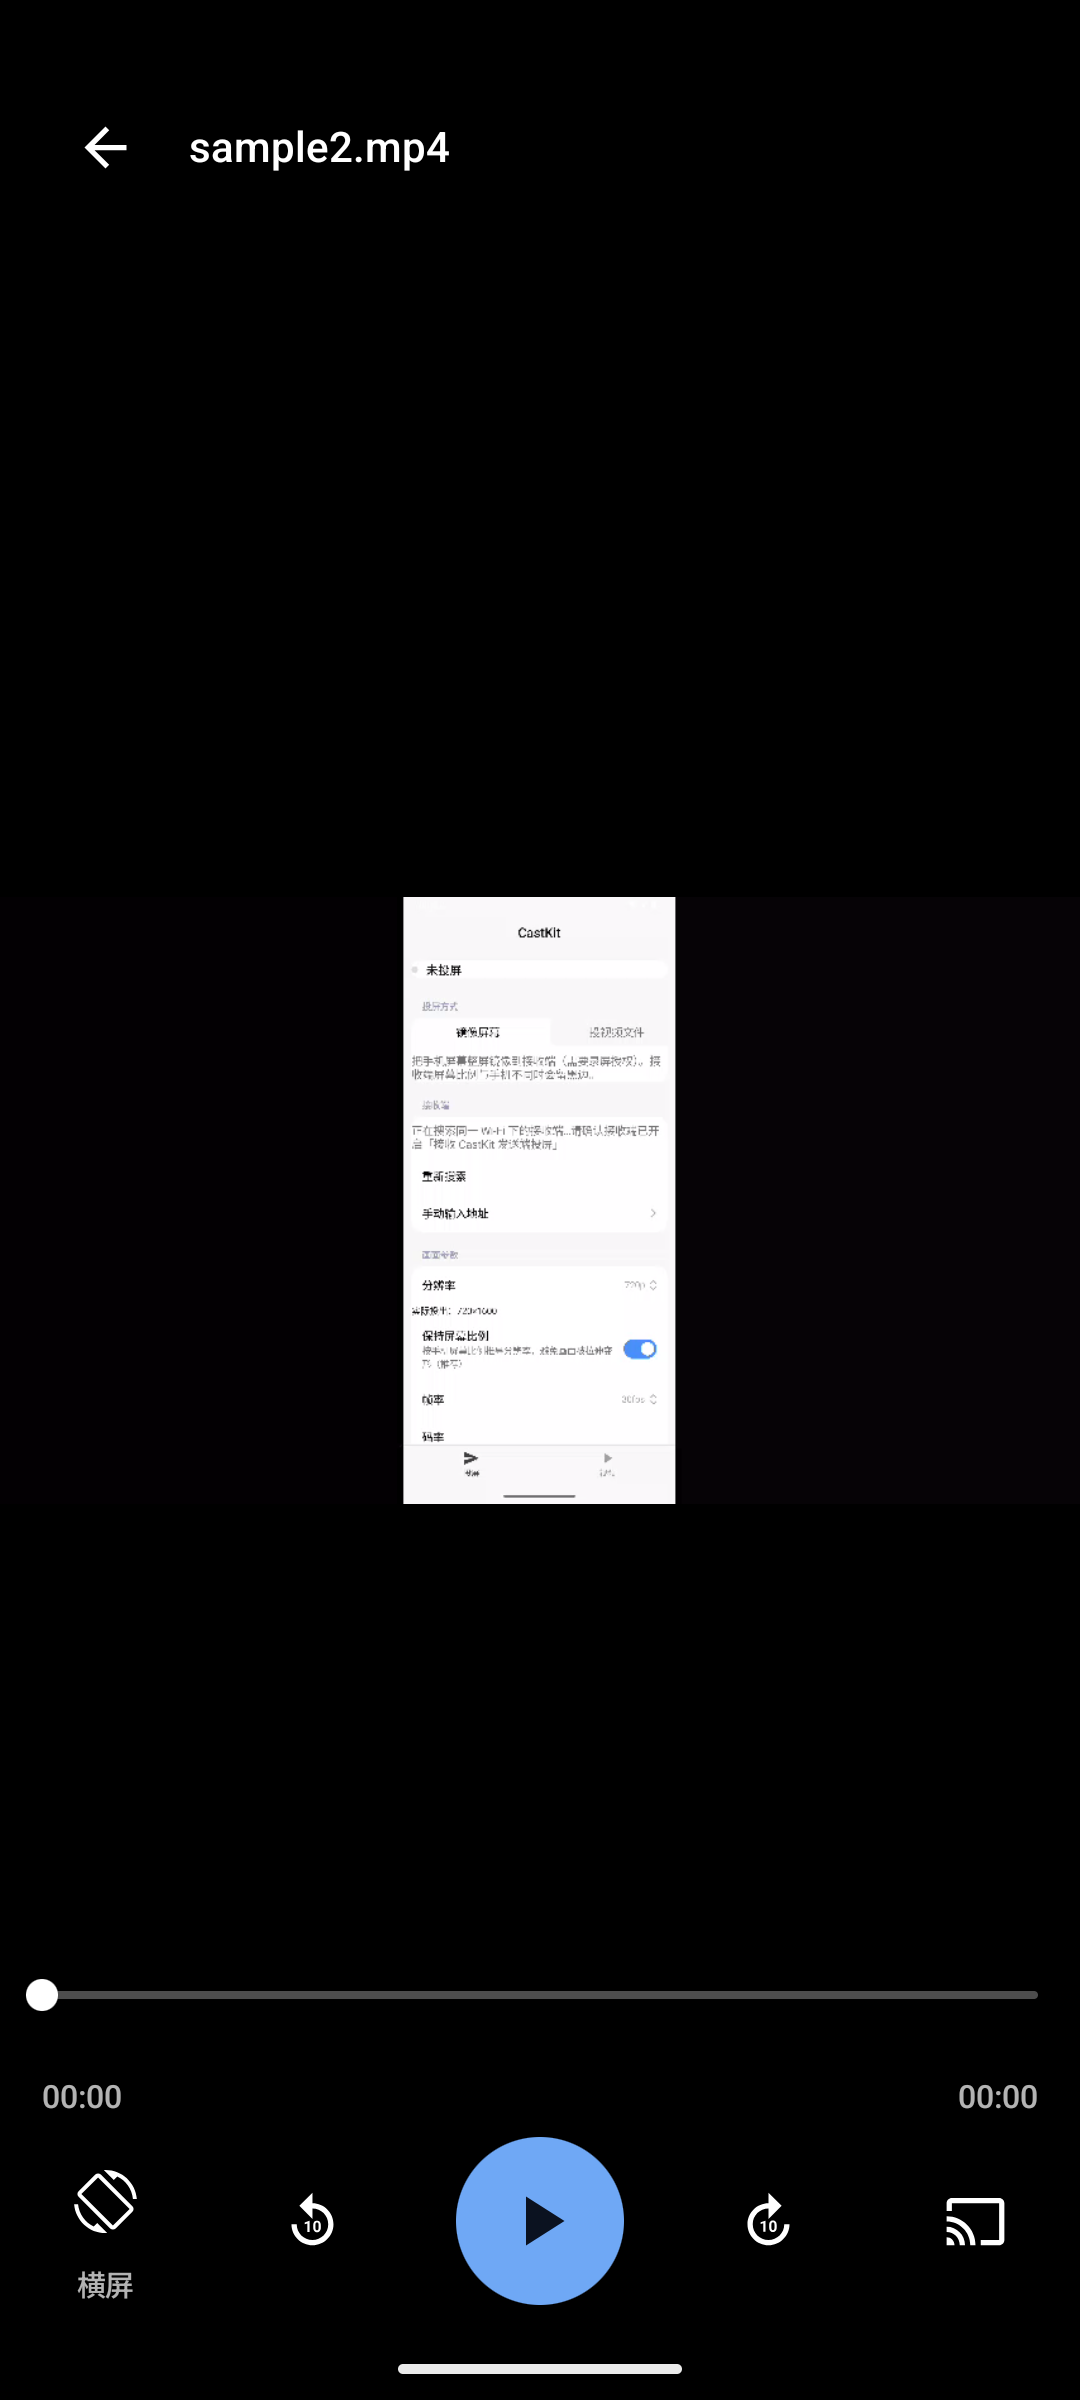
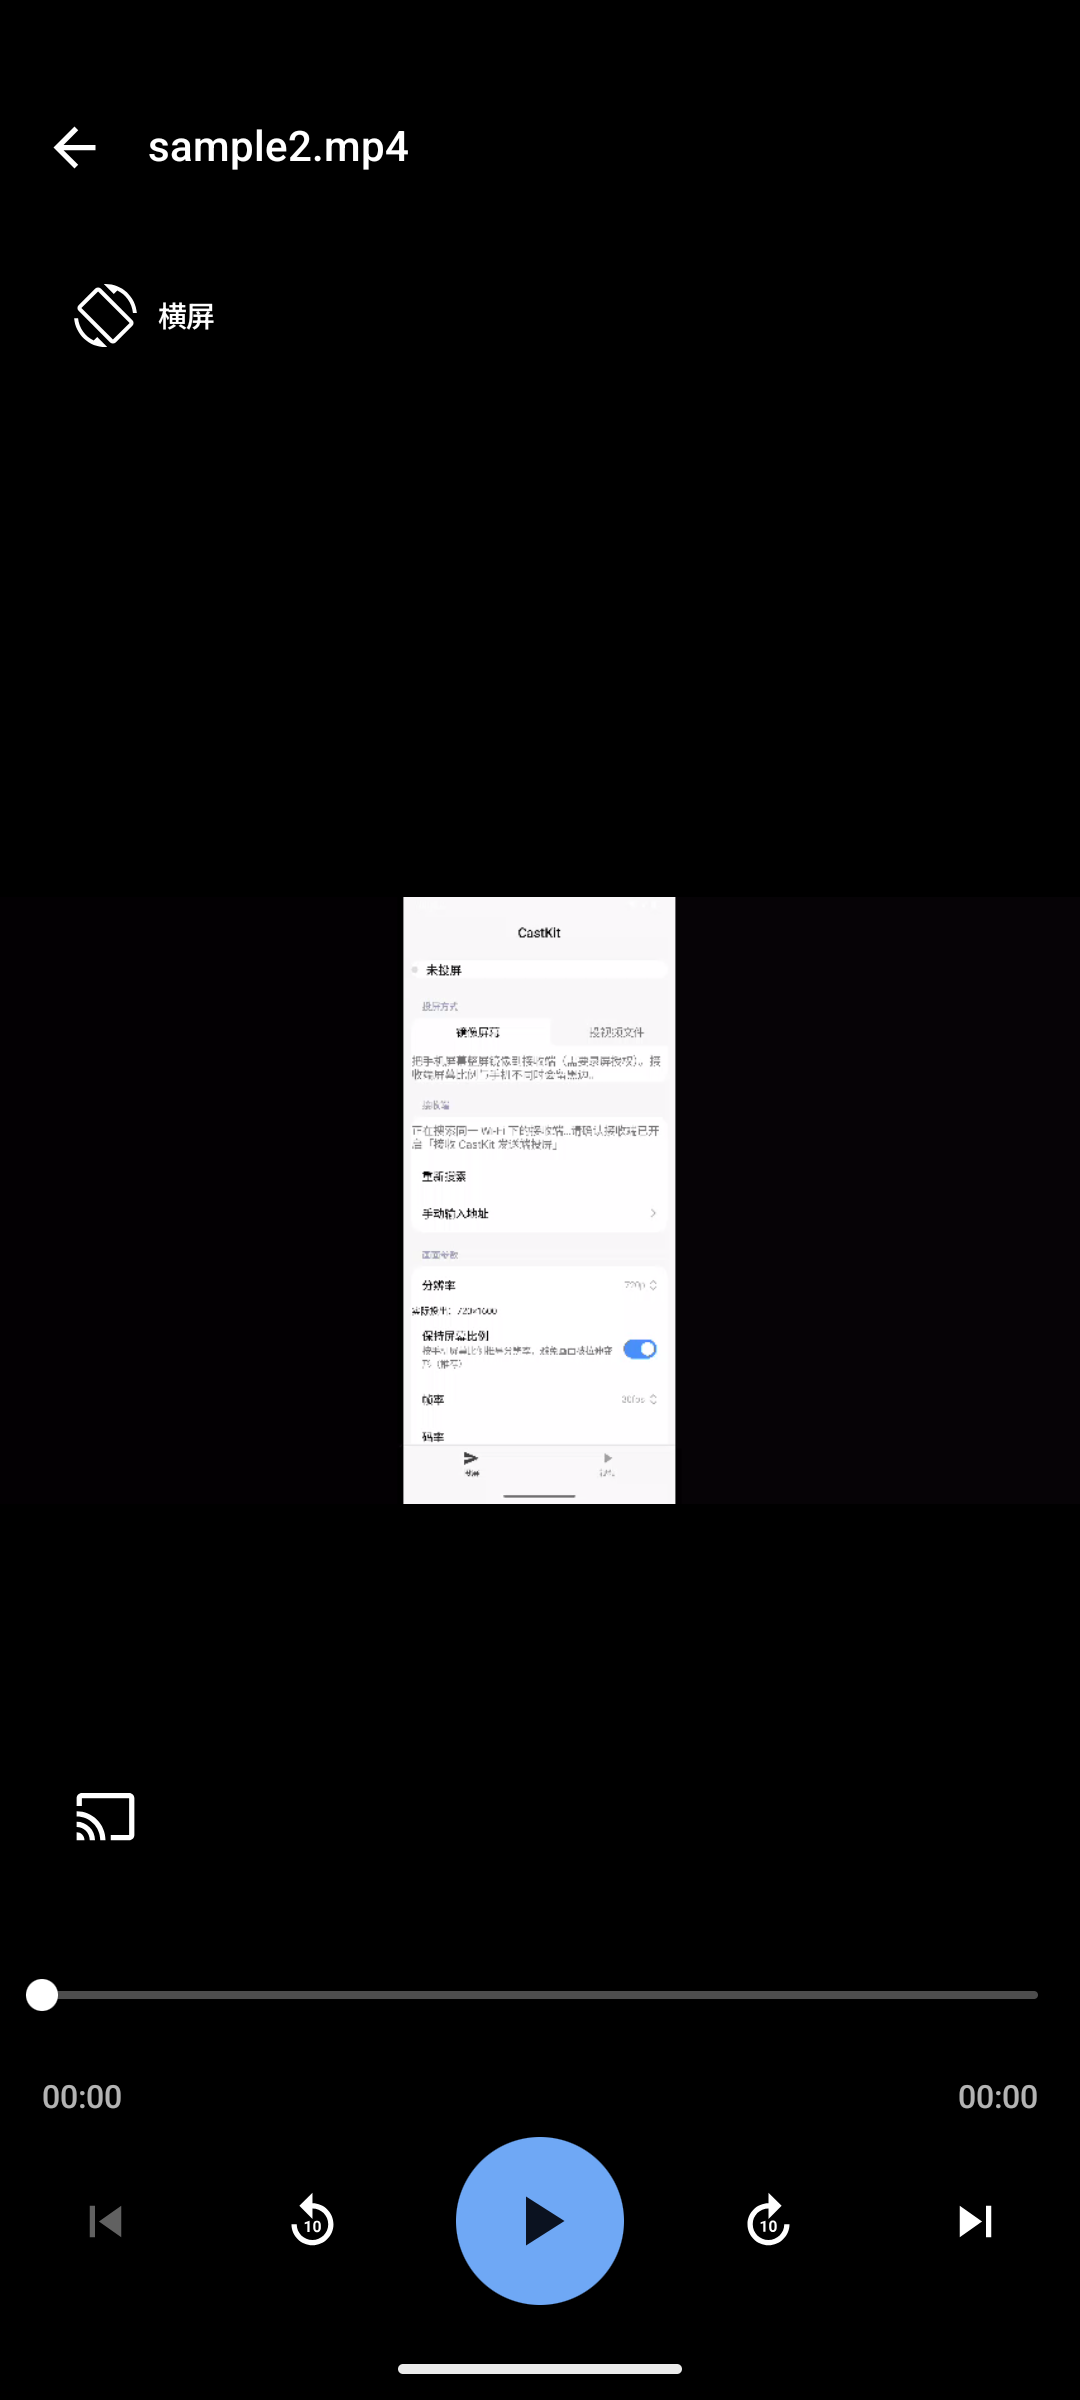
feat(sender): 播放页加上「上一个/下一个视频」，底栏扩成五格
顺序按要求排：上一个视频 · ↺10 · 播放暂停 · ↷10 · 下一个视频。

功能是真的能切，不是摆设：
- 文件列表页在 onPlay 里把**当前文件夹的显示顺序**（含当时的排序）一起交给播放页，
  它再按这份列表算前后 —— 所以排序变了，上一个/下一个的顺序也跟着变。
- 已在列表首/末个时按钮**置灰**（38% 不透明度）并且不响应点击，而不是隐藏：
  隐藏会让控制排的格数随播放位置跳，位置不稳。
- 切集之前会先收掉正在进行的投送，否则接收端还在放上一个文件。

PlayerIconSlot 因此加了 enabled 参数；PlayerBottomControls 加 hasPrev/hasNext/
onPrev/onNext。debbug 画廊的调用点同步更新。

顺带更新文档：README 的「播放页」小节、DESIGN-SYSTEM 的底部控制区表格与偏差清单
（补 3b 条），以及两张已经过时的播放器截图（还是旧的五格布局）。

实测（真机 2410DPN6CC）：
- 布局：五格在 384dp 窄屏上排得下，首格置灰、末格高亮。
- 上一个：418 → 417 → 416（g-h265 → g-vp9 → g-3gp），按列表顺序正确回退。
- 置灰：在列表首个位置连点 16 下「上一个」，零响应、无崩溃。

diff --git a/sender/app/src/main/kotlin/com/dsh/castkit/sender/ui/VideoPlayerScreen.kt b/sender/app/src/main/kotlin/com/dsh/castkit/sender/ui/VideoPlayerScreen.kt
@@ -40,6 +40,8 @@ import androidx.compose.material.icons.filled.Pause
 import androidx.compose.material.icons.filled.PlayArrow
 import androidx.compose.material.icons.filled.Replay10
 import androidx.compose.material.icons.filled.ScreenRotation
+import androidx.compose.material.icons.filled.SkipNext
+import androidx.compose.material.icons.filled.SkipPrevious
 import androidx.compose.material.icons.filled.Stop
 import androidx.compose.material.icons.filled.WifiTethering
 import androidx.compose.material3.CircularProgressIndicator
@@ -139,6 +141,11 @@ fun VideoPlayerScreen(
     onRemoteToggle: () -> Unit,
     onRemoteSeek: (Long) -> Unit,
     onClose: () -> Unit,
+    /** 上一个 / 下一个视频；列表为空或已在两端时对应回调不会触发（按钮也会置灰）。 */
+    hasPrev: Boolean = false,
+    hasNext: Boolean = false,
+    onPrev: () -> Unit = {},
+    onNext: () -> Unit = {},
 ) {
     val context = LocalContext.current
     val activity = context as? Activity
@@ -357,6 +364,8 @@ fun VideoPlayerScreen(
                     positionMs = position,
                     durationMs = duration,
                     playing = playing,
+                    hasPrev = hasPrev,
+                    hasNext = hasNext,
                     onScrub = { scrubMs = it },
                     onScrubFinished = {
                         val target = scrubMs
@@ -365,9 +374,11 @@ fun VideoPlayerScreen(
                         }
                         scrubMs = null
                     },
+                    onPrev = onPrev,
                     onSeekBack = { seekBy(-SEEK_STEP_MS) },
-                    onSeekForward = { seekBy(SEEK_STEP_MS) },
                     onPlayPause = { if (remote) onRemoteToggle() else vm.toggle() },
+                    onSeekForward = { seekBy(SEEK_STEP_MS) },
+                    onNext = onNext,
                 )
             }
         }
@@ -430,17 +441,21 @@ internal fun PlayerTopBar(title: String, onBack: () -> Unit) {
     )
 }
 
-/** 底栏：进度条 + 时间码 + 三格控制排。 */
+/** 底栏：进度条 + 时间码 + 五格控制排。 */
 @Composable
 internal fun PlayerBottomControls(
     positionMs: Long,
     durationMs: Long,
     playing: Boolean,
+    hasPrev: Boolean,
+    hasNext: Boolean,
     onScrub: (Long) -> Unit,
     onScrubFinished: () -> Unit,
+    onPrev: () -> Unit,
     onSeekBack: () -> Unit,
-    onSeekForward: () -> Unit,
     onPlayPause: () -> Unit,
+    onSeekForward: () -> Unit,
+    onNext: () -> Unit,
 ) {
     Column(
         modifier = Modifier
@@ -474,14 +489,22 @@ internal fun PlayerBottomControls(
             )
         }
 
-        // 只留播放本身需要的那三个：后退10 | 播放暂停(64dp) | 前进10。
-        // 「切方向」挪到顶栏下方、「投屏」挪到本栏左上方，都做成悬浮钮。
-        // SpaceBetween 在只有三格时正好把主按钮顶在正中，两侧等距。
+        // 五格：上一个视频 | 后退10 | 播放暂停(64dp) | 前进10 | 下一个视频。
+        // 「切方向」在顶栏下方、「投屏」在本栏左上方，都是悬浮钮，不在这排里。
+        // 宽度核算：48×4 + 64 = 256dp，加两端 16dp 留白 = 288dp，
+        // 在 360dp 窄屏上仍有余量，所以不需要缩小图标或收紧间距。
         Row(
             modifier = Modifier.fillMaxWidth(),
             horizontalArrangement = Arrangement.SpaceBetween,
             verticalAlignment = Alignment.CenterVertically,
         ) {
+            PlayerIconSlot(
+                icon = Icons.Filled.SkipPrevious,
+                label = stringResource(R.string.player_prev_video),
+                enabled = hasPrev,
+                onClick = onPrev,
+            )
+
             // ±10 秒不加文字标签：Replay10 / Forward10 图标本身带 "10"
             PlayerIconSlot(
                 icon = Icons.Filled.Replay10,
@@ -495,6 +518,13 @@ internal fun PlayerBottomControls(
                 icon = Icons.Filled.Forward10,
                 label = stringResource(R.string.player_forward_10),
                 onClick = onSeekForward,
+            )
+
+            PlayerIconSlot(
+                icon = Icons.Filled.SkipNext,
+                label = stringResource(R.string.player_next_video),
+                enabled = hasNext,
+                onClick = onNext,
             )
         }
     }
@@ -679,6 +709,9 @@ private fun ScrubBar(
  *
  * @param text 图标下方的 11sp 极小文字；传 null 表示不放（±10 秒用不到，
  *        因为图标本身带 "10"）。
+ * @param enabled false 表示这个操作当前没有意义（例如已经是列表第一个，"上一个"），
+ *        图标降到 38% 不透明度并且不响应点击 —— 置灰而不是隐藏，
+ *        这样控制排的格数和位置不会随播放位置跳来跳去。
  */
 @Composable
 private fun PlayerIconSlot(
@@ -688,6 +721,7 @@ private fun PlayerIconSlot(
     modifier: Modifier = Modifier,
     text: String? = null,
     active: Boolean = false,
+    enabled: Boolean = true,
 ) {
     Column(
         modifier = modifier,
@@ -697,13 +731,17 @@ private fun PlayerIconSlot(
             modifier = Modifier
                 .size(CastKitSizes.minTouchTarget)
                 .clip(CircleShape)
-                .clickable(onClick = onClick),
+                .clickable(enabled = enabled, onClick = onClick),
             contentAlignment = Alignment.Center,
         ) {
             Icon(
                 imageVector = icon,
                 contentDescription = label,
-                tint = if (active) ImmersiveColors.Accent else ImmersiveColors.OnScrim,
+                tint = when {
+                    !enabled -> ImmersiveColors.OnScrim.copy(alpha = 0.38f)
+                    active -> ImmersiveColors.Accent
+                    else -> ImmersiveColors.OnScrim
+                },
                 modifier = Modifier.size(CastKitSizes.playerSecondaryGlyph),
             )
         }

diff --git a/sender/app/src/main/kotlin/com/dsh/castkit/sender/ui/MainScreen.kt b/sender/app/src/main/kotlin/com/dsh/castkit/sender/ui/MainScreen.kt
@@ -82,6 +82,12 @@ fun MainScreen(
     val context = LocalContext.current
     var tab by remember { mutableStateOf(HomeTab.CAST) }
     var playing by remember { mutableStateOf<Uri?>(null) }
+
+    /**
+     * 打开播放页时当前文件夹的播放列表（显示顺序）。
+     * 播放页的「上一个/下一个」按它走；直接进播放页（系统文件选择器）时只有一个元素。
+     */
+    var playlist by remember { mutableStateOf<List<Uri>>(emptyList()) }
     val snackbarHostState = remember { SnackbarHostState() }
 
     // 投屏页的状态提升到 ViewModel：配置变更 / 页面重建后不再丢失
@@ -157,8 +163,9 @@ fun MainScreen(
 
                     HomeTab.VIDEO -> FileListScreen(
                         vm = browserVm,
-                        onPlay = { uri ->
+                        onPlay = { uri, siblings ->
                             onPickVideoUri(uri)
+                            playlist = siblings
                             playing = uri
                         },
                         onUseSystemPicker = onPickVideo,
@@ -173,6 +180,16 @@ fun MainScreen(
             val title = remember(playingUri) {
                 runCatching { LanCastFileServer.describe(context, playingUri).name }.getOrDefault("")
             }
+            // 上一个/下一个：在打开播放页时那份列表里的位置。找不到（例如换了列表）
+            // 就退化成"没有上下一个"，按钮置灰，不会乱跳。
+            val index = playlist.indexOf(playingUri)
+            val hasPrev = index > 0
+            val hasNext = index >= 0 && index < playlist.size - 1
+            /** 切集：先收掉当前投送，再换片源 —— 否则接收端还在放上一个文件。 */
+            fun switchTo(target: Uri) {
+                if (isVideoCasting()) onStopVideo()
+                playing = target
+            }
             VideoPlayerScreen(
                 uri = playingUri,
                 title = title,
@@ -186,7 +203,12 @@ fun MainScreen(
                     // 退出播放页即结束投送：否则播放页关了，接收端还在自己播
                     if (isVideoCasting()) onStopVideo()
                     playing = null
+                    playlist = emptyList()
                 },
+                hasPrev = hasPrev,
+                hasNext = hasNext,
+                onPrev = { if (hasPrev) switchTo(playlist[index - 1]) },
+                onNext = { if (hasNext) switchTo(playlist[index + 1]) },
             )
         }
     }

diff --git a/sender/app/src/main/kotlin/com/dsh/castkit/sender/ui/FileListScreen.kt b/sender/app/src/main/kotlin/com/dsh/castkit/sender/ui/FileListScreen.kt
@@ -94,7 +94,8 @@ private const val BASE_COLUMNS = 60
 @Composable
 fun FileListScreen(
     vm: BrowserViewModel,
-    onPlay: (Uri) -> Unit,
+    /** (被点的视频, 当前文件夹的播放列表) —— 第二个参数给播放页的「上一个/下一个」用。 */
+    onPlay: (Uri, List<Uri>) -> Unit,
     onUseSystemPicker: () -> Unit,
     modifier: Modifier = Modifier,
 ) {
@@ -257,7 +258,7 @@ fun FileListScreen(
 private fun LibraryGrid(
     vm: BrowserViewModel,
     state: LibraryUiState.Content,
-    onPlay: (Uri) -> Unit,
+    onPlay: (Uri, List<Uri>) -> Unit,
 ) {
     val iconSize = vm.iconSize
     val avatarSize = when (iconSize) {
@@ -297,6 +298,9 @@ private fun LibraryGrid(
         }
 
         if (state.videos.isNotEmpty()) {
+            // 播放页的「上一个/下一个」按**当前文件夹的显示顺序**走，
+            // 所以这里把这份列表一起交给播放页（排序变了列表也跟着变）。
+            val playlist = state.videos.map { it.uri }
             item(span = { GridItemSpan(maxLineSpan) }) {
                 SectionHeader(
                     text = stringResource(R.string.browser_video_count, state.videos.size),
@@ -308,7 +312,11 @@ private fun LibraryGrid(
                 key = { "video:" + it.key },
                 span = { GridItemSpan(BASE_COLUMNS / iconSize.videoCols) },
             ) { video ->
-                LibraryVideoTile(video = video, iconSize = iconSize, onPlay = onPlay)
+                LibraryVideoTile(
+                    video = video,
+                    iconSize = iconSize,
+                    onPlay = { uri -> onPlay(uri, playlist) },
+                )
             }
         }
     }

diff --git a/sender/app/src/debug/kotlin/com/dsh/castkit/sender/ui/PageCompositions.kt b/sender/app/src/debug/kotlin/com/dsh/castkit/sender/ui/PageCompositions.kt
@@ -432,11 +432,15 @@ private fun PlayerComposition(casting: Boolean) {
                 positionMs = 252_000L,
                 durationMs = 754_000L,
                 playing = !casting,
+                hasPrev = true,
+                hasNext = false,
                 onScrub = {},
                 onScrubFinished = {},
+                onPrev = {},
                 onSeekBack = {},
-                onSeekForward = {},
                 onPlayPause = {},
+                onSeekForward = {},
+                onNext = {},
             )
         }
     }

diff --git a/README.md b/README.md
@@ -156,7 +156,12 @@ bash tools/install-apk.sh receiver # 导出到 Download/DSHA 供安装
 
 **播放页**
 
-- 底部控制区五格：`切到横/竖屏` · `后退 10 秒` · `播放/暂停` · `前进 10 秒` · `投屏`
+- 底部控制区五格：`上一个视频` · `后退 10 秒` · `播放/暂停` · `前进 10 秒` · `下一个视频`
+  （列表首/末个时对应按钮置灰不响应）
+- **上一个 / 下一个**按打开播放页时那个文件夹的显示顺序走（含当时的排序）；切换前会先收掉
+  正在进行的投送，避免接收端还在放上一个文件
+- `切到横/竖屏` 是**顶部标题栏正下方**的悬浮钮，`投屏` 是**底部控制栏左上方**的悬浮钮 ——
+  两个都不在控制排里，因为它们不属于"播放本身"的动作
 - 进度条为自绘的 **3dp 细轨 + 12dp 圆形滑块**；点击画面切换控制栏显隐，3 秒无操作自动隐藏
 - **切到横/竖屏**：只改本机方向，接收端画面方向不受影响（镜像投屏会据 `localPlayerActive`
   停止跟随本机旋转）
